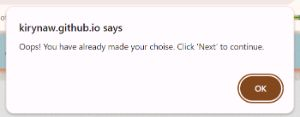
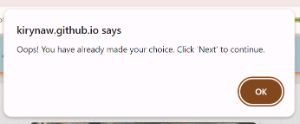
Add: new feture image and fix a blank space in code

diff --git a/assets/js/script.js b/assets/js/script.js
@@ -26,7 +26,6 @@ let answerChosen = false; // Store if option chosen
 
 
 // Create Quiz functions to run the game 
-
 /** 
  * When start btn is clicked it triggers this function which
  * reveals game area and shuffles through the array of questions
@@ -60,7 +59,7 @@ function getImage() {
 }
 
 /** 
- * Shuffles through the questions/images arrays by using Fisher-Yates method
+ * Shuffles through the questions/images arrays by using Fisher-Yates algorithm
  */ 
 function shuffleQuestions() {
     for(let i= questionContent.length -1; i > 0; i--) {

diff --git a/README.md b/README.md
@@ -132,6 +132,7 @@ The quiz is responsive on all screen types: Mobiles, Tablets and Laptops.
 - The selection of an answer option also reveals a "Next" button and a "Interesting Facts" paragraph.
 
   ![Next button reveal when option selected](docs/features-screenshots/nextbtn_factsreveal.jpg)
+  ![Alert message pop-up when option selected](docs/features-screenshots/alert_message.jpg)
 
 - When "Next" button is clicked, it shows the next question/painting and hides the "Next" button and "Interesting Facts" paragraph.
 
